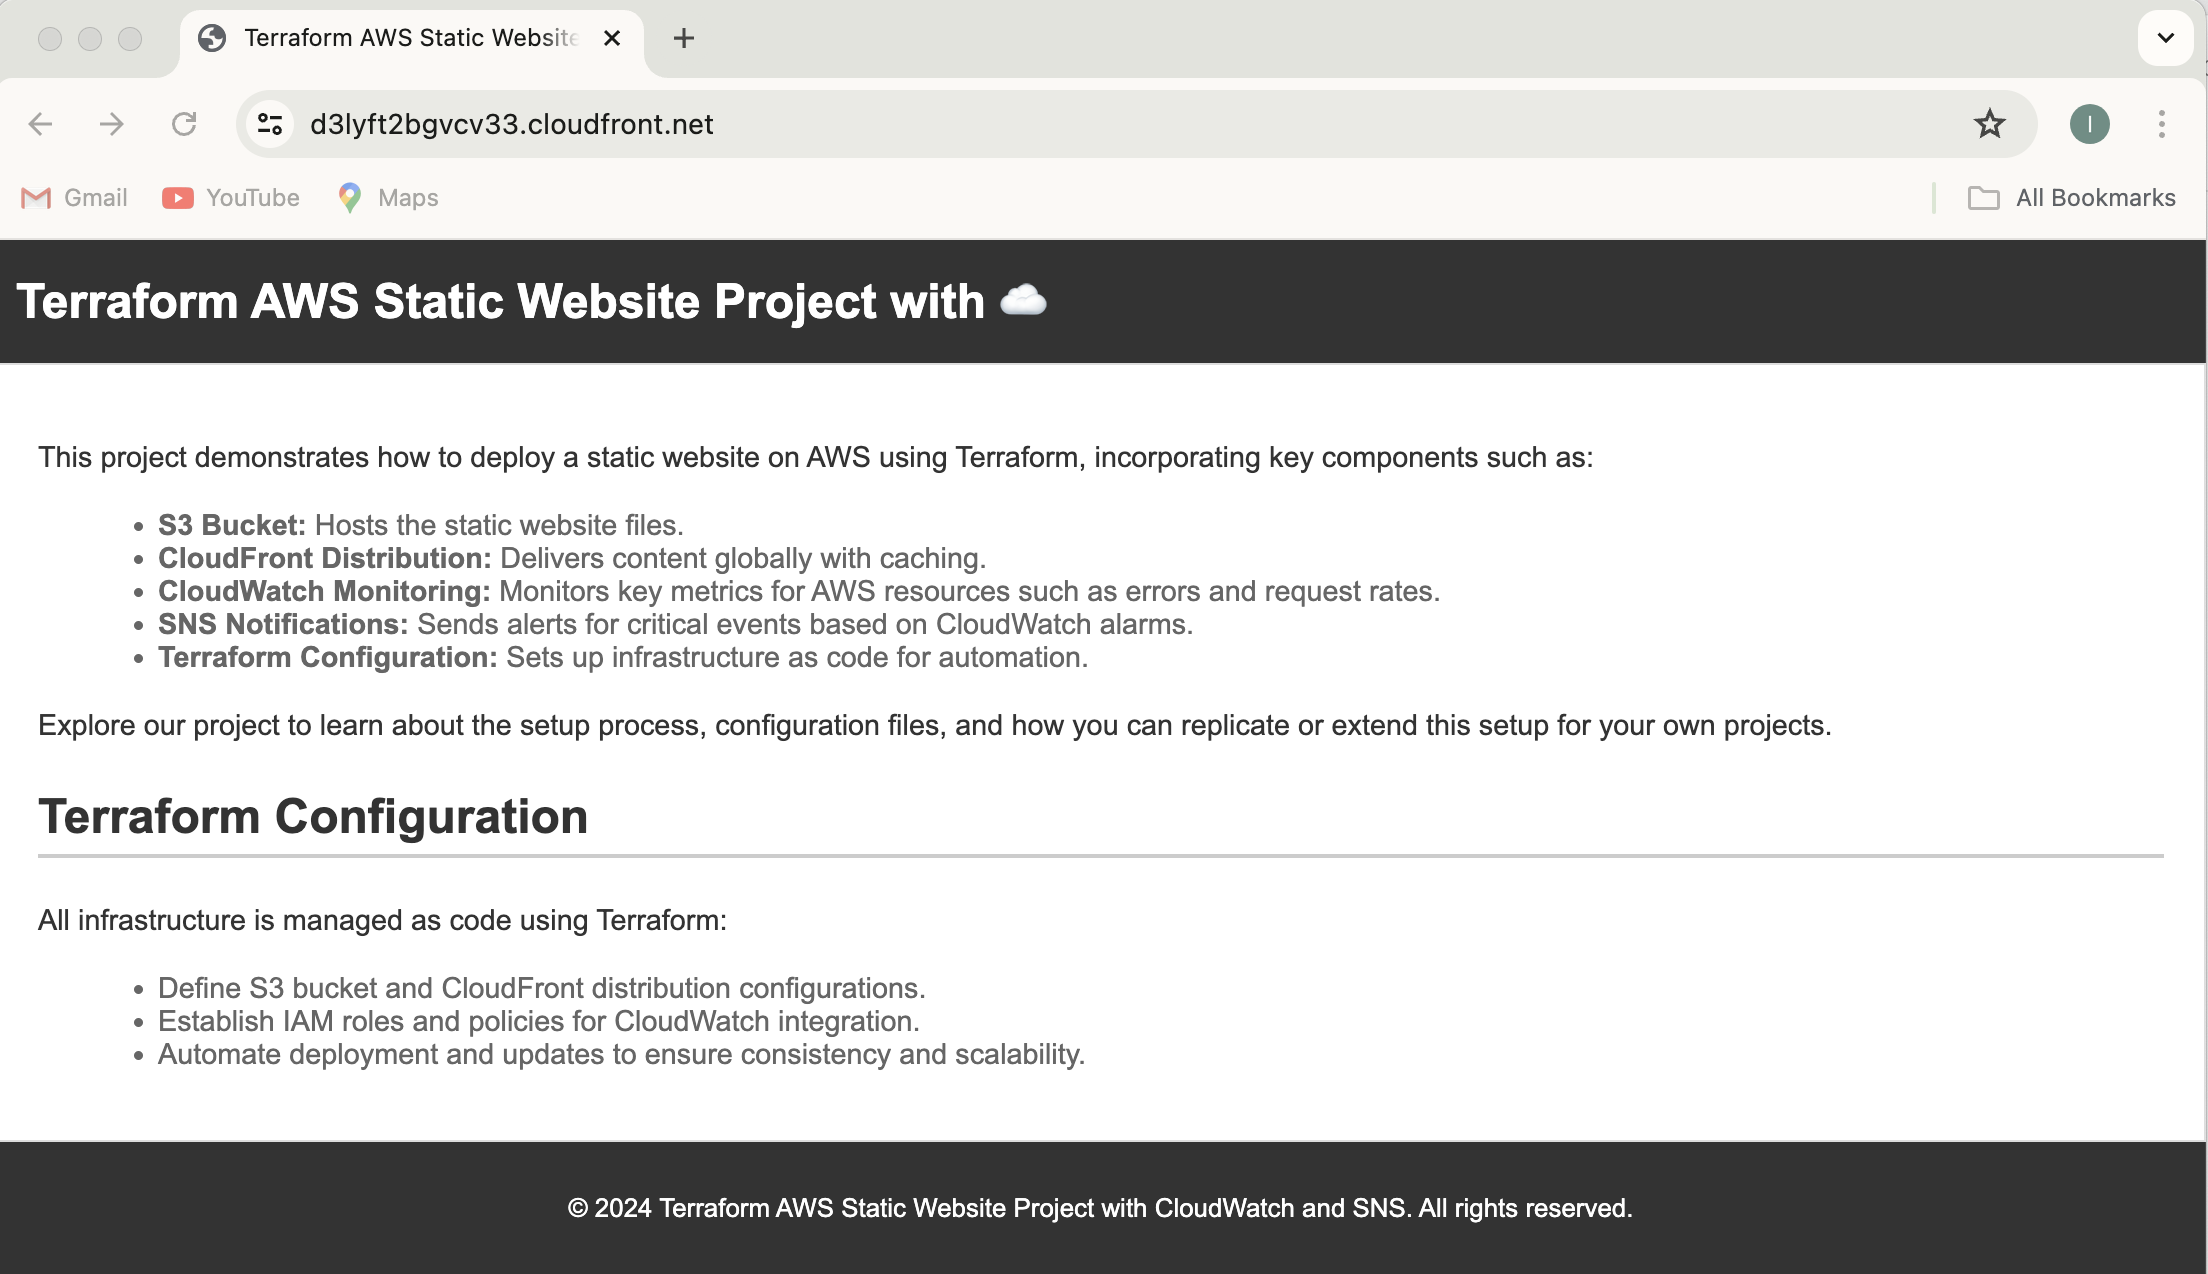
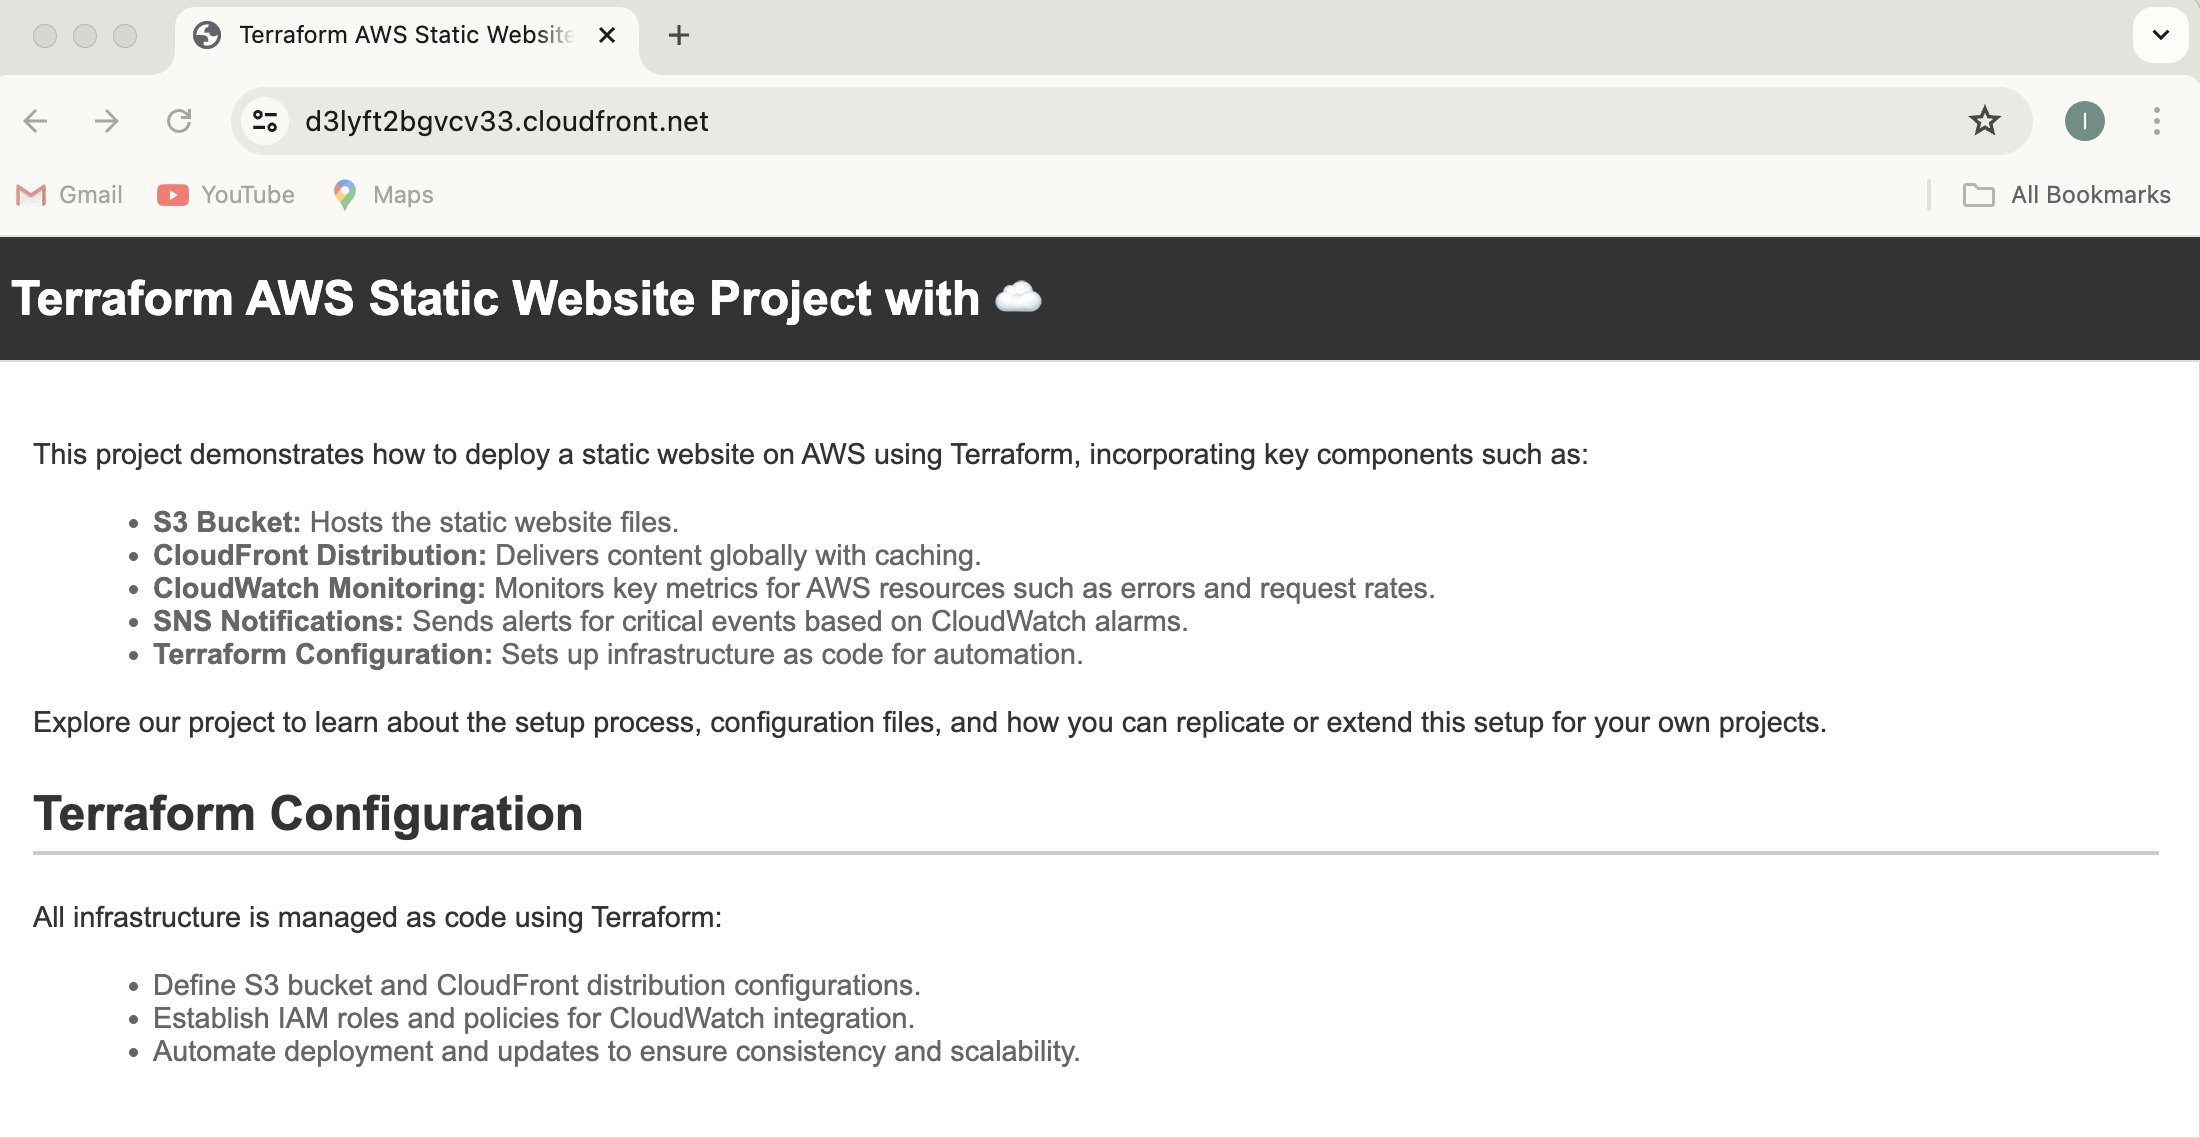
updated index.html

Changed region(s): [[0.0, 0.0, 1.0, 1.0], [0.0, 0.6151, 0.8345, 0.6766], [0.0927, 0.0, 0.2782, 0.0615]]

diff --git a/website/index.html b/website/index.html
@@ -58,14 +58,6 @@
             color: #666;
             font-size: 0.9em;
         }
-        footer {
-            text-align: center;
-            padding: 10px;
-            background-color: #333;
-            color: #fff;
-            font-size: 0.9em;
-            margin-top: 0;
-        }
     </style>
 </head>
 <body>
@@ -96,8 +88,5 @@
             </ul>
         </section>
     </div>
-    <footer>
-        <p>&copy; 2024 Terraform AWS Static Website Project with CloudWatch and SNS. All rights reserved.</p>
-    </footer>
 </body>
 </html>
